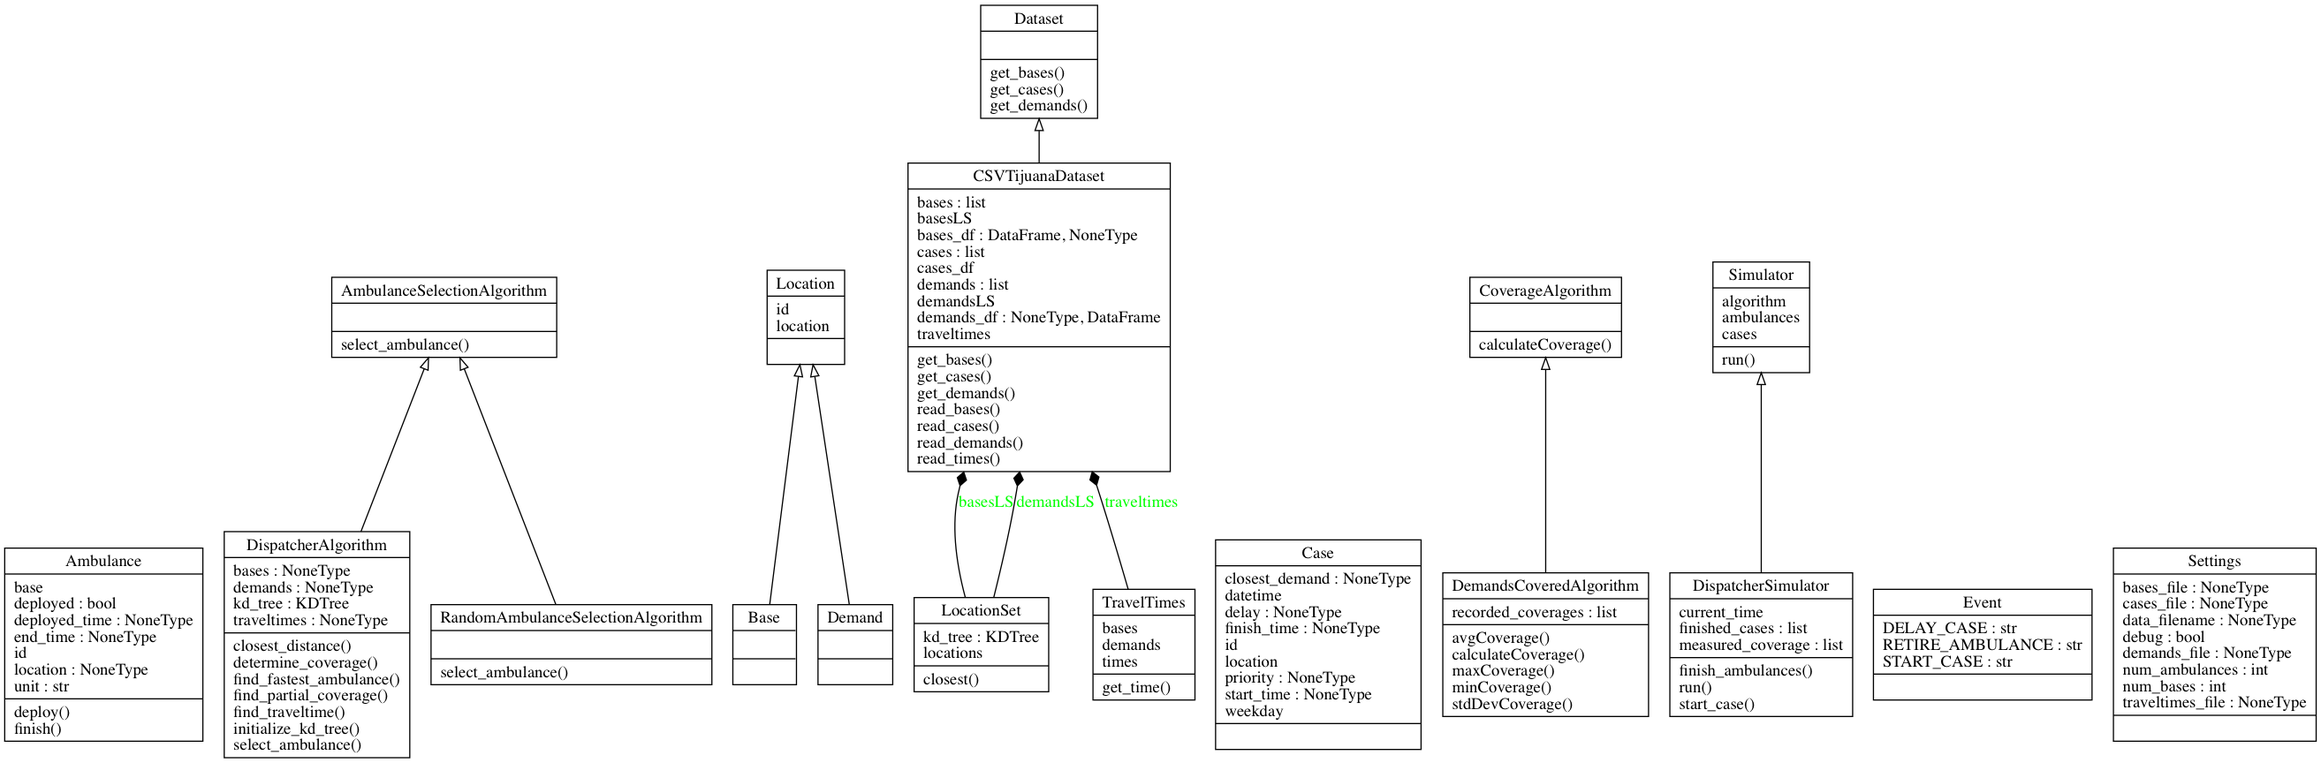
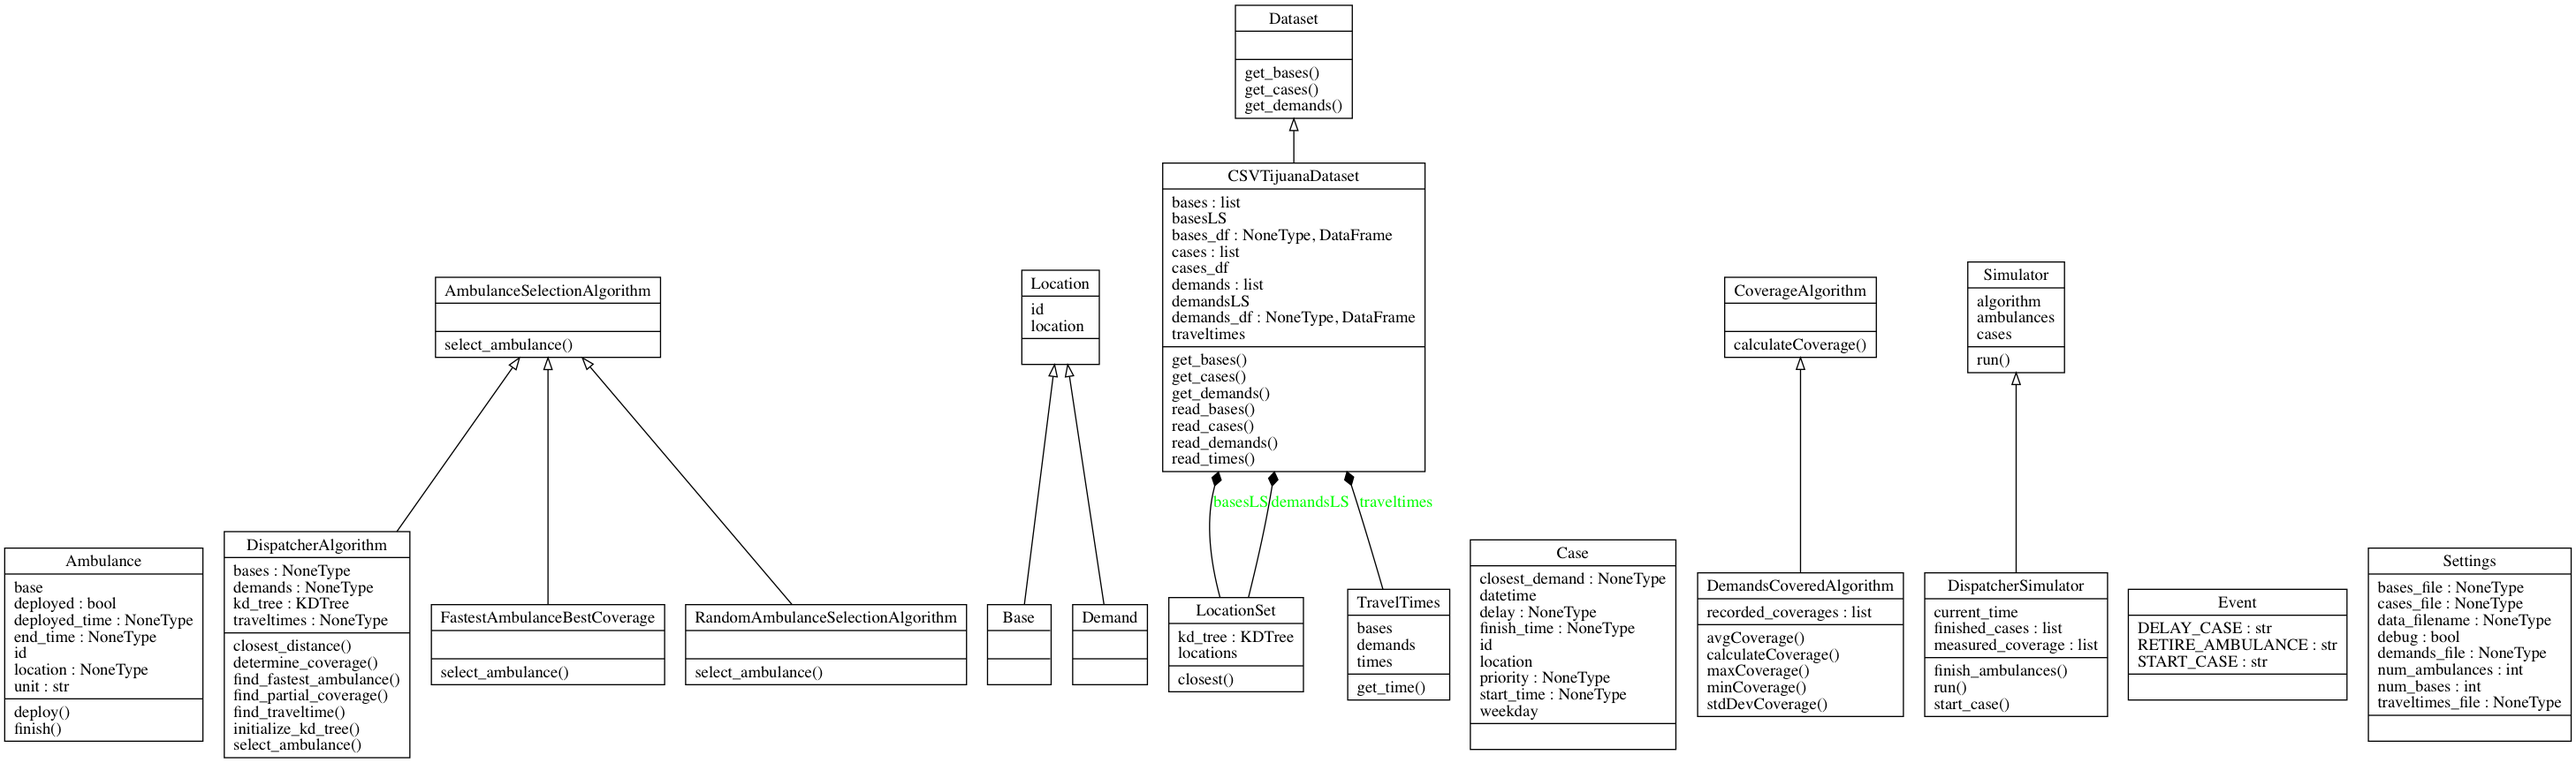
uml

diff --git a/ems/algorithms/fastest_or_coverage.py b/ems/algorithms/fastest_or_coverage.py
@@ -1,0 +1,19 @@
+# Framework for using algorithms and allowing for replacement
+from typing import List
+
+from ems.models.ambulance import Ambulance
+from ems.models.case import Case
+from ems.models.demand import Demand
+from ems.algorithms.ambulance_selection import AmbulanceSelectionAlgorithm
+
+# Used by the sim to select ambulances
+class FastestAmbulanceBestCoverage(AmbulanceSelectionAlgorithm):
+    """
+        Barebone class. Users may subclass to implement their own algorithm for
+        selecting an ambulance.
+    """
+
+    def select_ambulance(self,
+                         ambulances: List[Ambulance],
+                         case: Case):
+        pass
